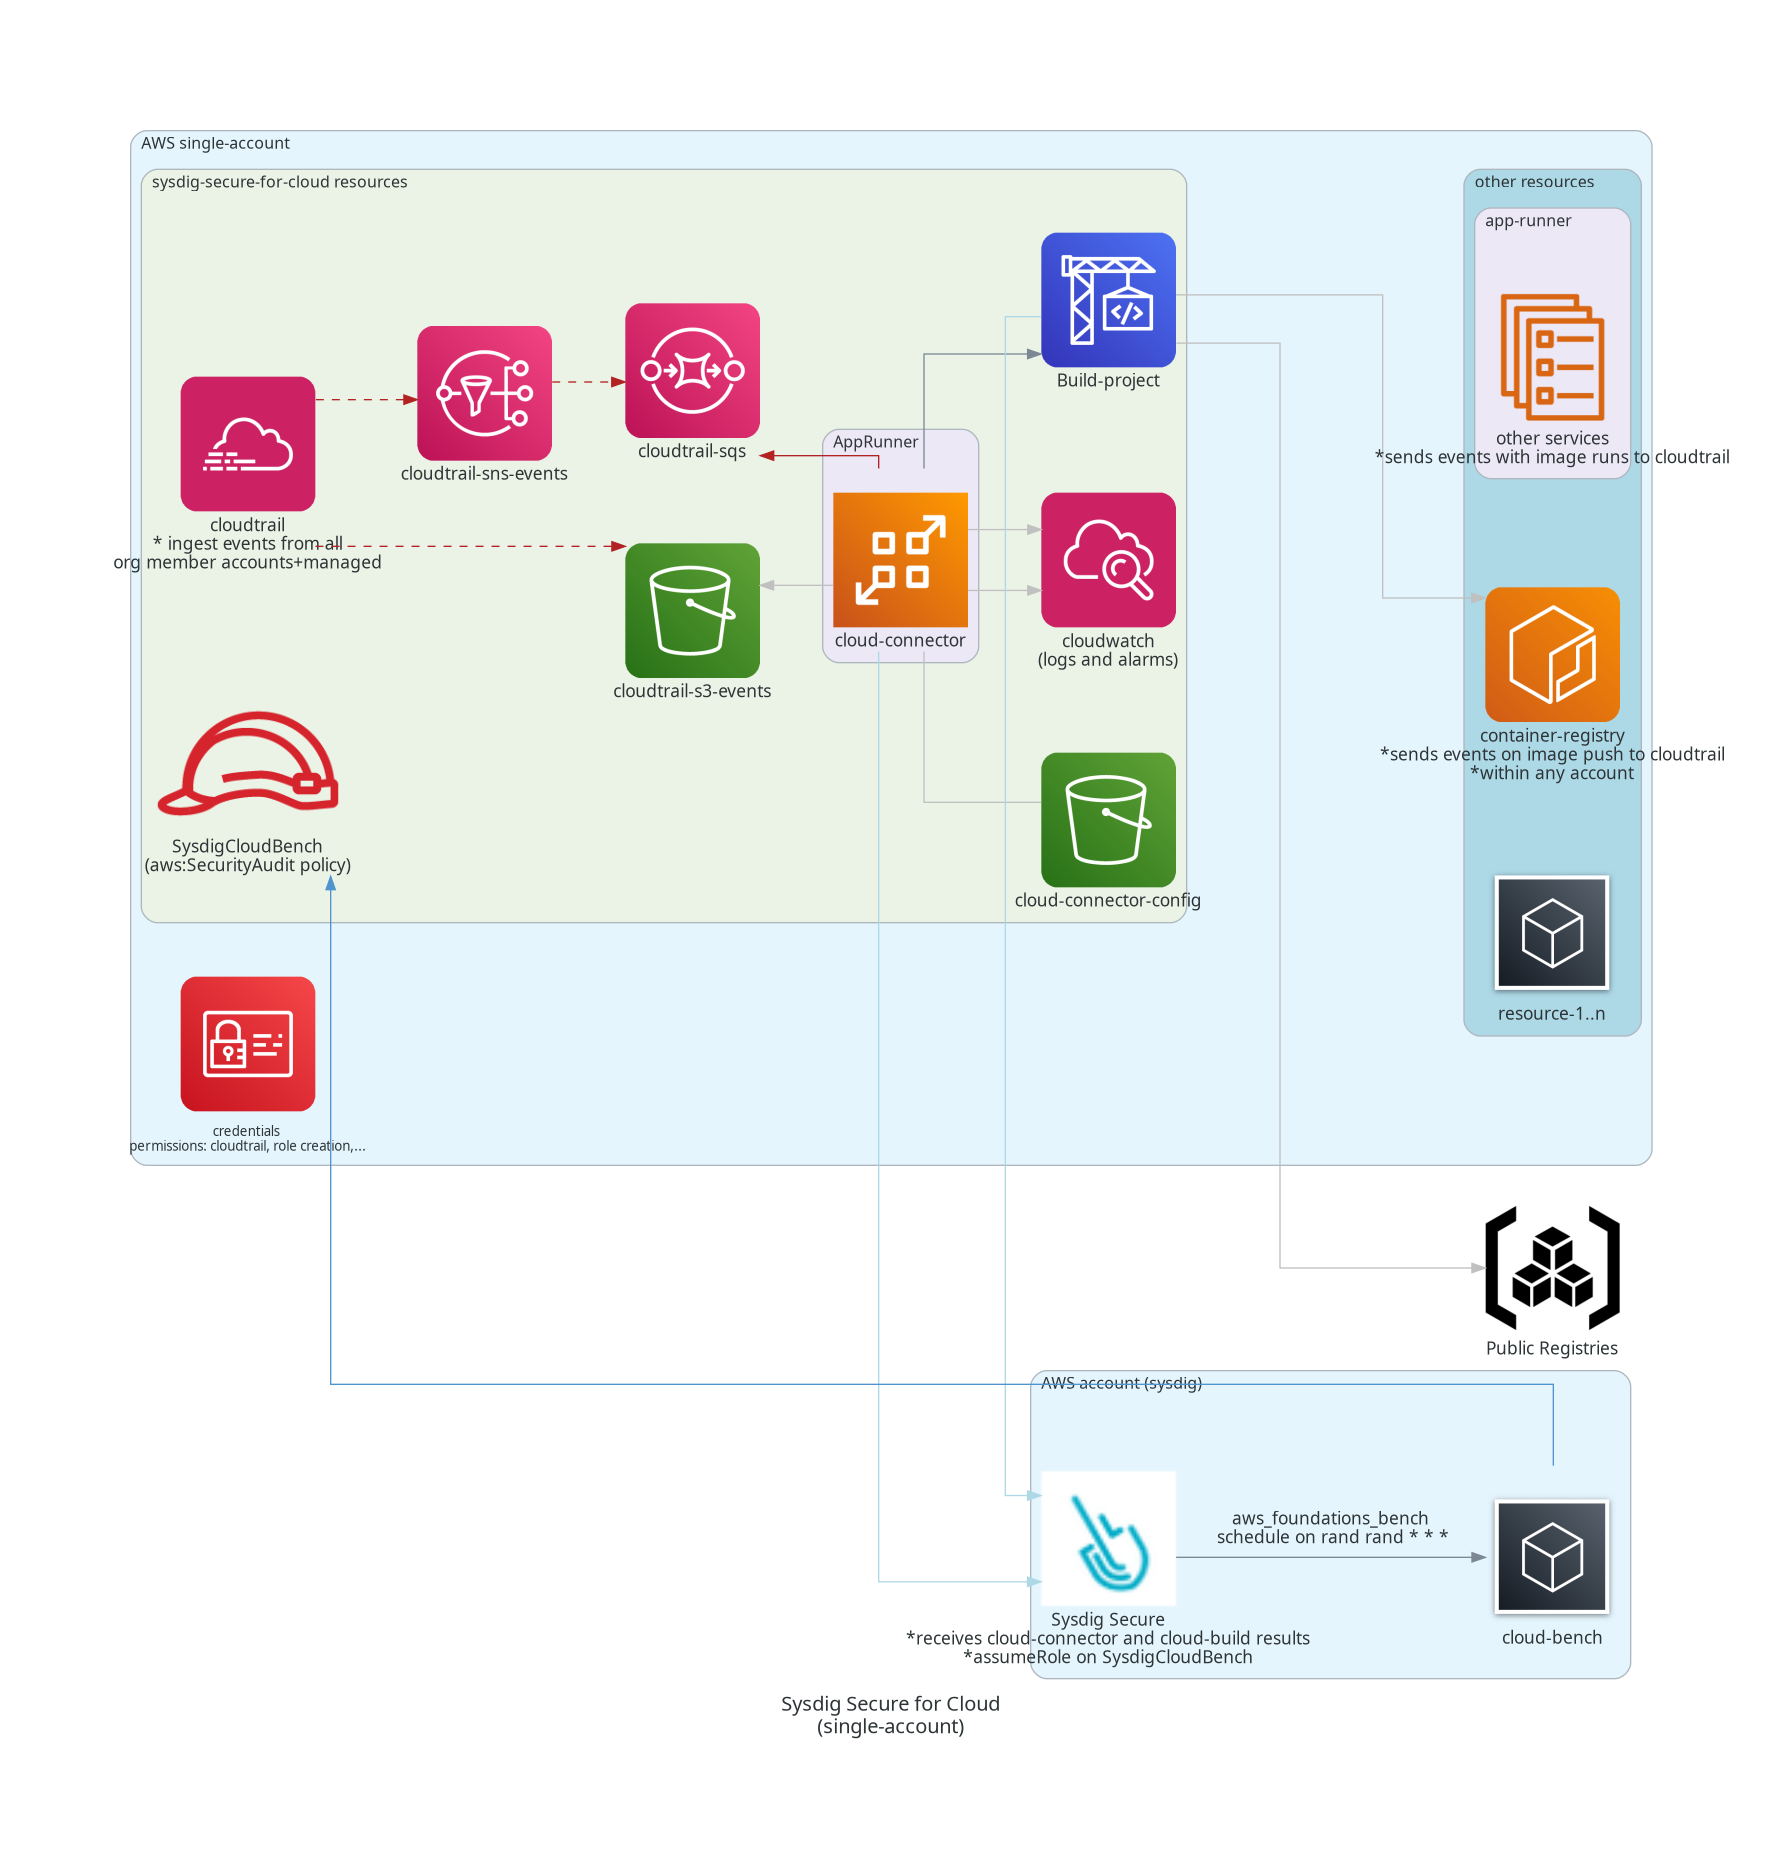
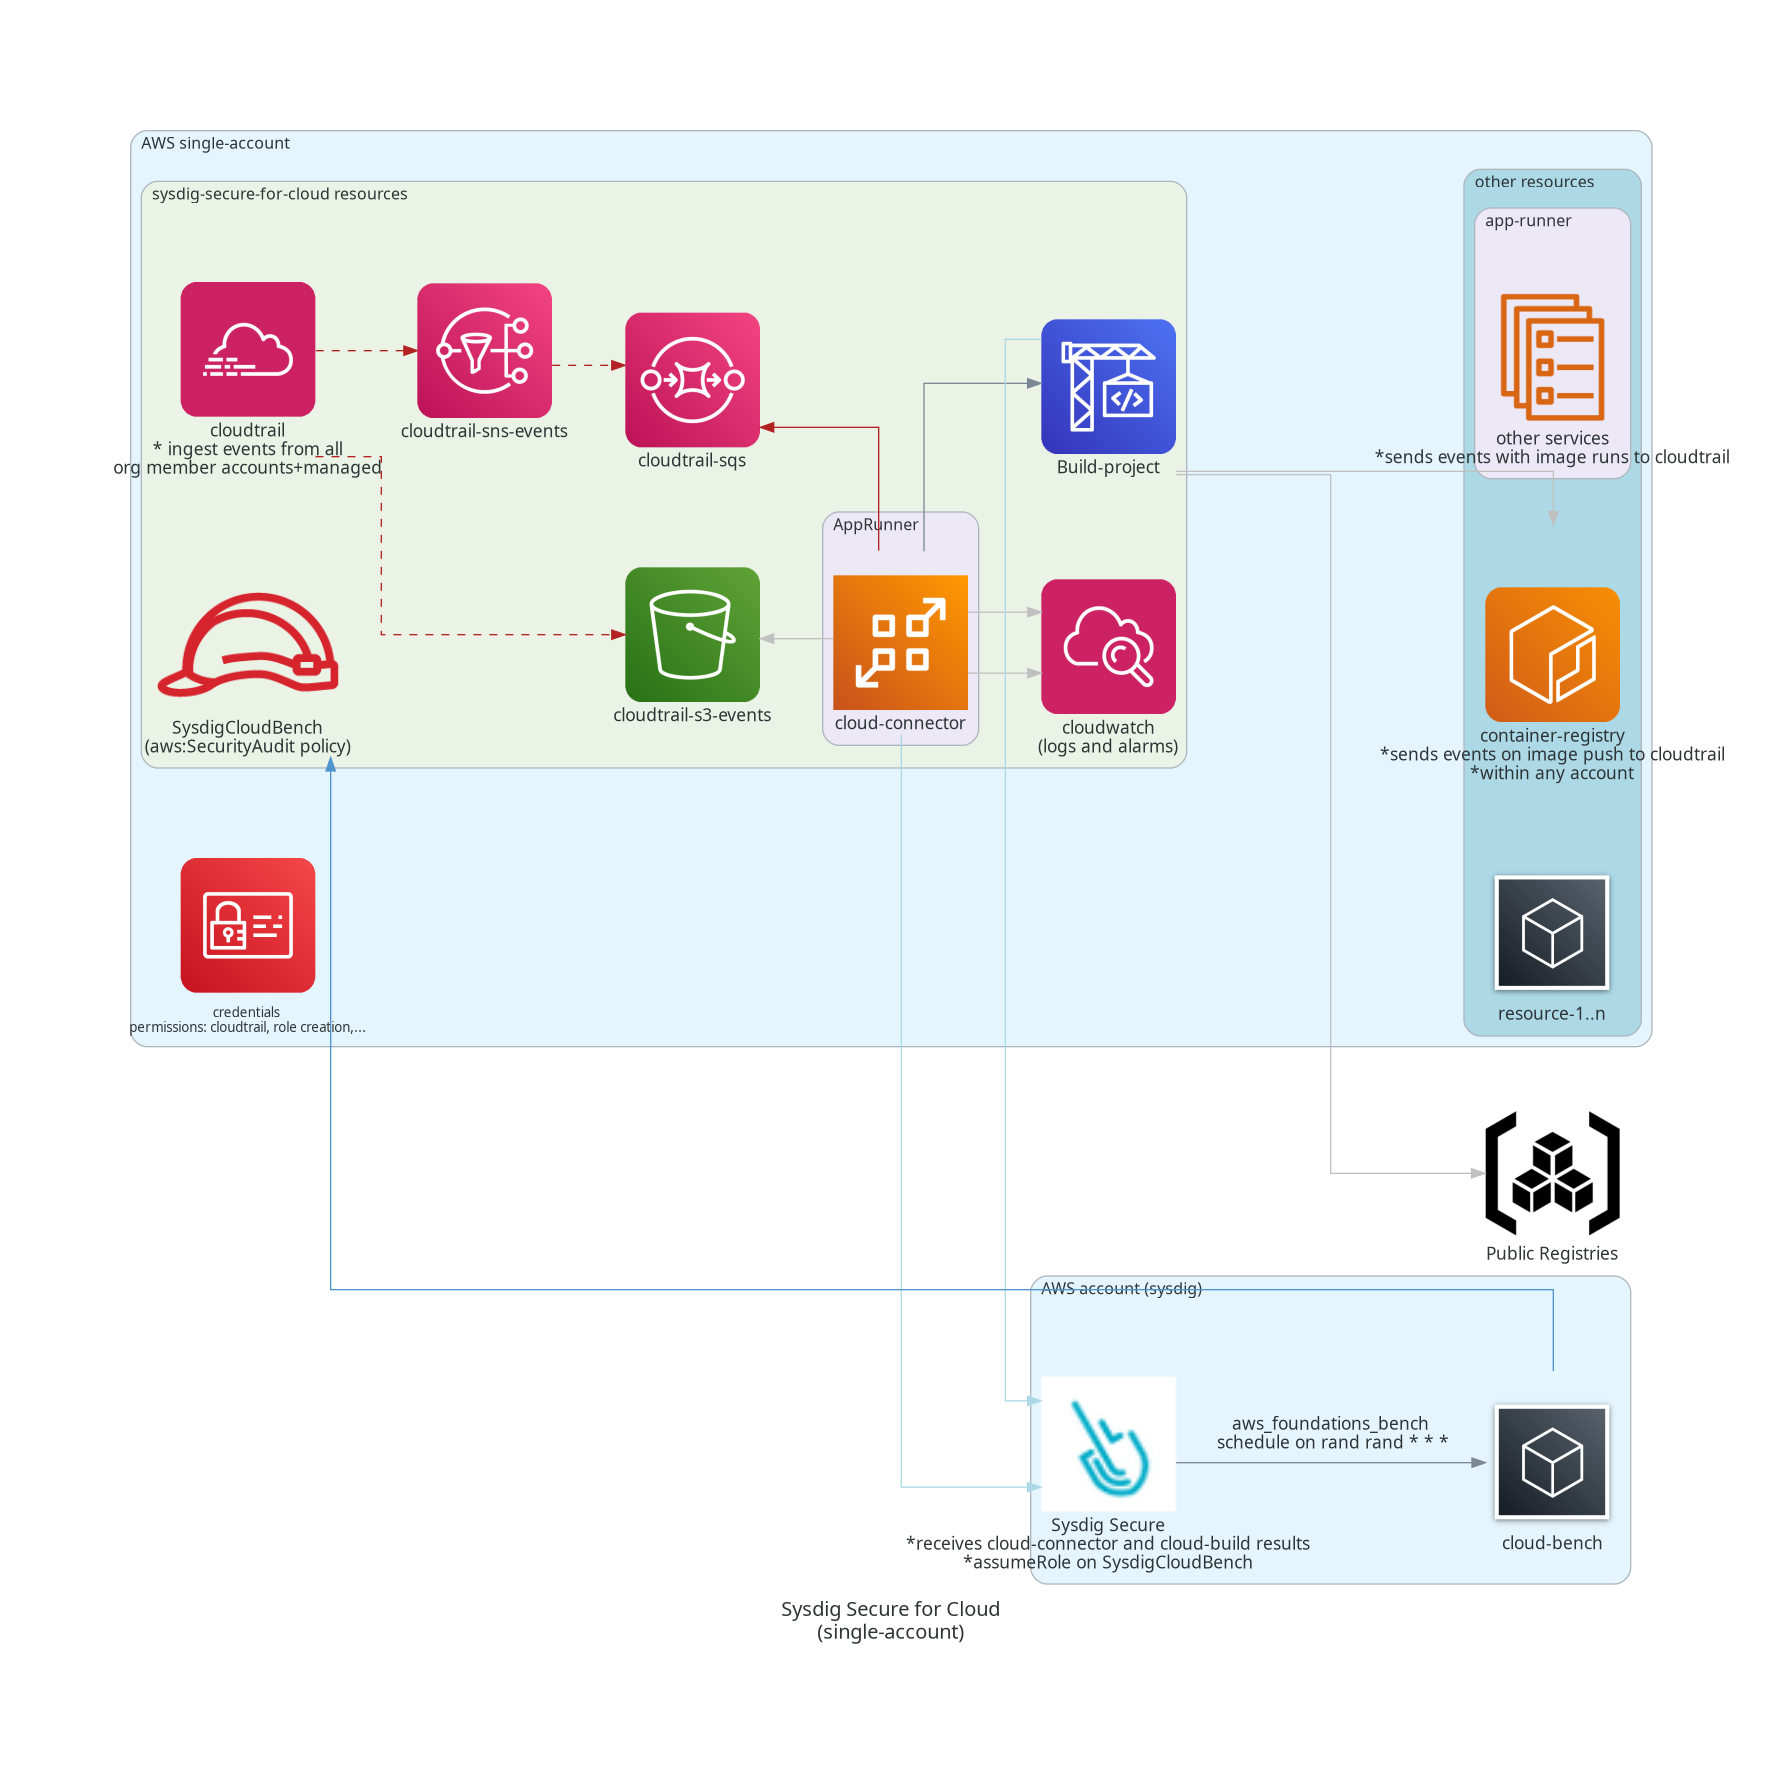
docs: diagrams upgraded to reflect no s3 configuration

diff --git a/examples/organizational/diagram-org.py b/examples/organizational/diagram-org.py
@@ -66,7 +66,6 @@ with Diagram("Sysdig Secure for Cloud\n(organizational)", graph_attr=diagram_att
             org_member_role_2 = IAMRole("OrganizationAccountAccessRole\n(created by AWS for org. \nmember accounts)", **role_attr)
 
             sqs         = SQS("cloudtrail-sqs")
-            s3_config   = S3("cloud-connector-config")
             cloudwatch  = Cloudwatch("cloudwatch\nlogs and alarms")
             codebuild   = Codebuild("codebuild project")
 
@@ -79,7 +78,6 @@ with Diagram("Sysdig Secure for Cloud\n(organizational)", graph_attr=diagram_att
                 cloud_connector = ElasticContainerServiceService("cloud-connector")
 
             sqs << Edge(color=color_event) << cloud_connector
-            cloud_connector - Edge(color=color_non_important) - s3_config
             cloud_connector >> Edge(color=color_non_important) >> cloudwatch
             cloud_connector  >>  Edge(color=color_non_important) >> cloudwatch
             cloud_connector >> codebuild

diff --git a/examples/single-account-k8s/diagram.py b/examples/single-account-k8s/diagram.py
@@ -51,7 +51,6 @@ with Diagram("Sysdig Secure for Cloud{}(single-account-k8s)".format("\n"), graph
 
             cloudtrail           = Cloudtrail("cloudtrail\n* ingest events from all\norg member accounts+managed", shape="plaintext")
             cloudtrail_s3       = S3("cloudtrail-s3-events")
-            s3_config           = S3("cloud-connector-config")
             sns                 = SNS("sns")
 
             sqs = SQS("cloudtrail-sqs")
@@ -76,7 +75,6 @@ with Diagram("Sysdig Secure for Cloud{}(single-account-k8s)".format("\n"), graph
 
         sqs << Edge(color=color_event) << cloud_connector
         cloud_connector >> Edge(color=color_sysdig, style="dashed") >> sqs
-        cloud_connector - Edge(color=color_non_important) - s3_config
 
         sns >> Edge(color=color_event, style="dashed") >> sqs
         (cloudtrail_s3 << Edge(color=color_non_important)) -  cloud_connector

diff --git a/examples/single-account-apprunner/diagram-single.py b/examples/single-account-apprunner/diagram-single.py
@@ -55,7 +55,6 @@ with Diagram("Sysdig Secure for Cloud{}(single-account)".format("\n"), graph_att
 
             cloudtrail_s3       = S3("cloudtrail-s3-events")
             sns                 = SNS("cloudtrail-sns-events", comment="i'm a graph")
-            s3_config = S3("cloud-connector-config")
             cloudwatch = Cloudwatch("cloudwatch\n(logs and alarms)")
 
 
@@ -67,7 +66,6 @@ with Diagram("Sysdig Secure for Cloud{}(single-account)".format("\n"), graph_att
 
             sqs = SQS("cloudtrail-sqs")
             sqs << Edge(color=color_event) << cloud_connector
-            cloud_connector - Edge(color=color_non_important) - s3_config
             cloud_connector >> Edge(color=color_non_important) >>  cloudwatch
 
             # scanning

diff --git a/examples/single-account-ecs/diagram-single.py b/examples/single-account-ecs/diagram-single.py
@@ -56,7 +56,6 @@ with Diagram("Sysdig Secure for Cloud{}(single-account-ecs)".format("\n"), graph
 
             cloudtrail_s3       = S3("cloudtrail-s3-events")
             sns                 = SNS("cloudtrail-sns-events", comment="i'm a graph")
-            s3_config = S3("cloud-connector-config")
             cloudwatch = Cloudwatch("cloudwatch\n(logs and alarms)")
 
 
@@ -68,7 +67,6 @@ with Diagram("Sysdig Secure for Cloud{}(single-account-ecs)".format("\n"), graph
 
             sqs = SQS("cloudtrail-sqs")
             sqs << Edge(color=color_event) << cloud_connector
-            cloud_connector - Edge(color=color_non_important) - s3_config
             cloud_connector >> Edge(color=color_non_important) >>  cloudwatch
 
             # scanning
